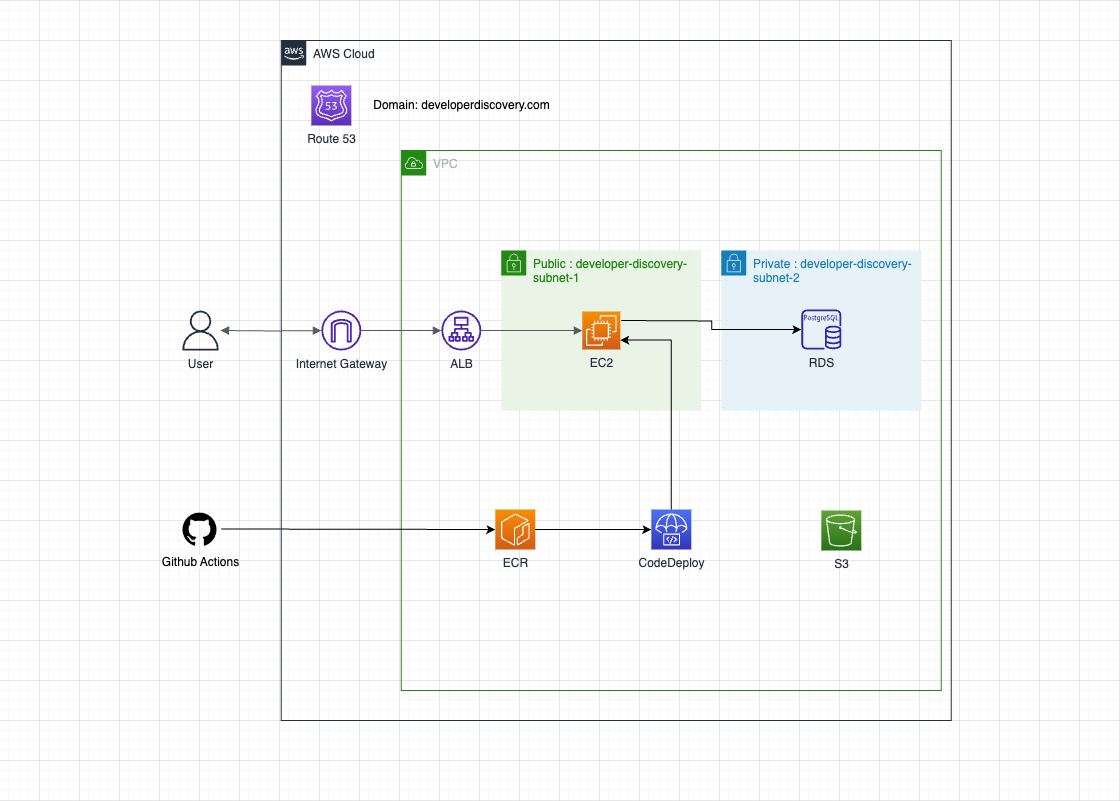
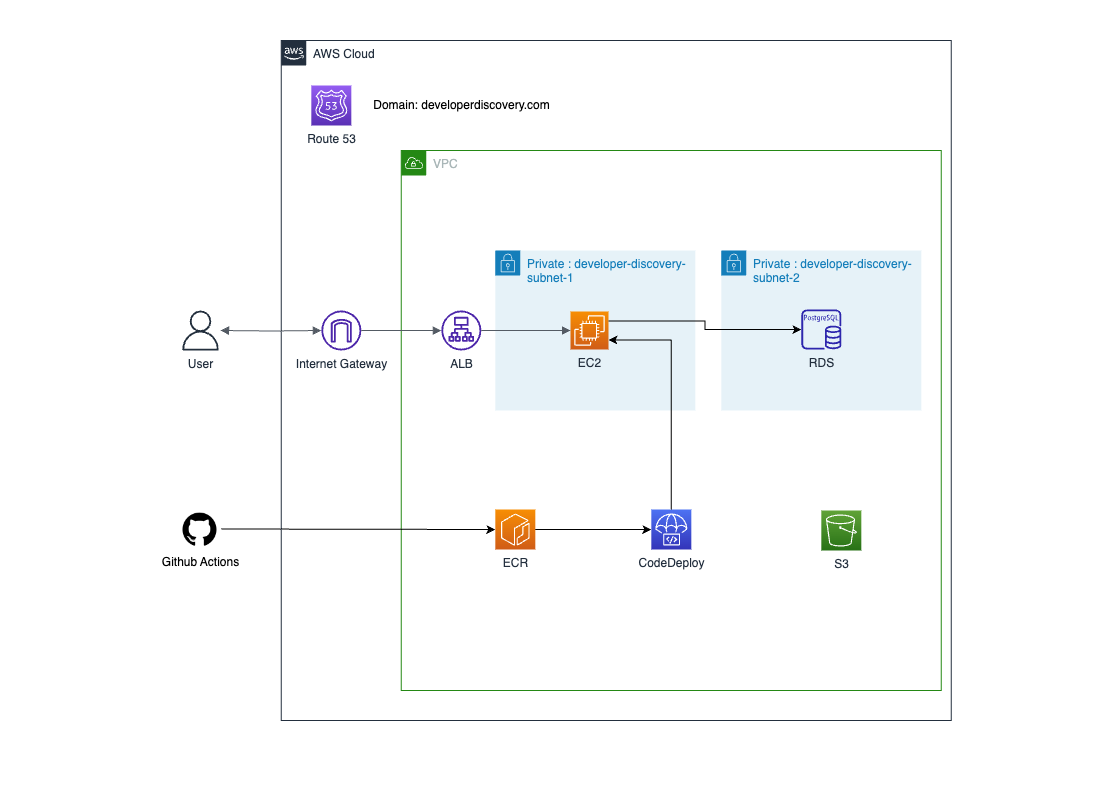
fix: 인프라 구조도 세부적으로 추가

diff --git a/README.md b/README.md
@@ -1,7 +1,6 @@
 # Infra_Developer_Discovery
 
-<img width="760" alt="infra_structure" src="https://github.com/rha6780/Infra_Developer_Discovery/assets/47859845/644c5cc3-dfb1-4e39-97ff-f25c0225d002">
-
+<img width="760" alt="infra_structure" src="https://github.com/rha6780/Infra_Developer_Discovery/assets/47859845/a6884a28-c07a-4e2b-a154-310eff1f6eea">
 
 - Developer Discovery 관련 인프라를 관리합니다.
 - Terraform 을 이용합니다.
